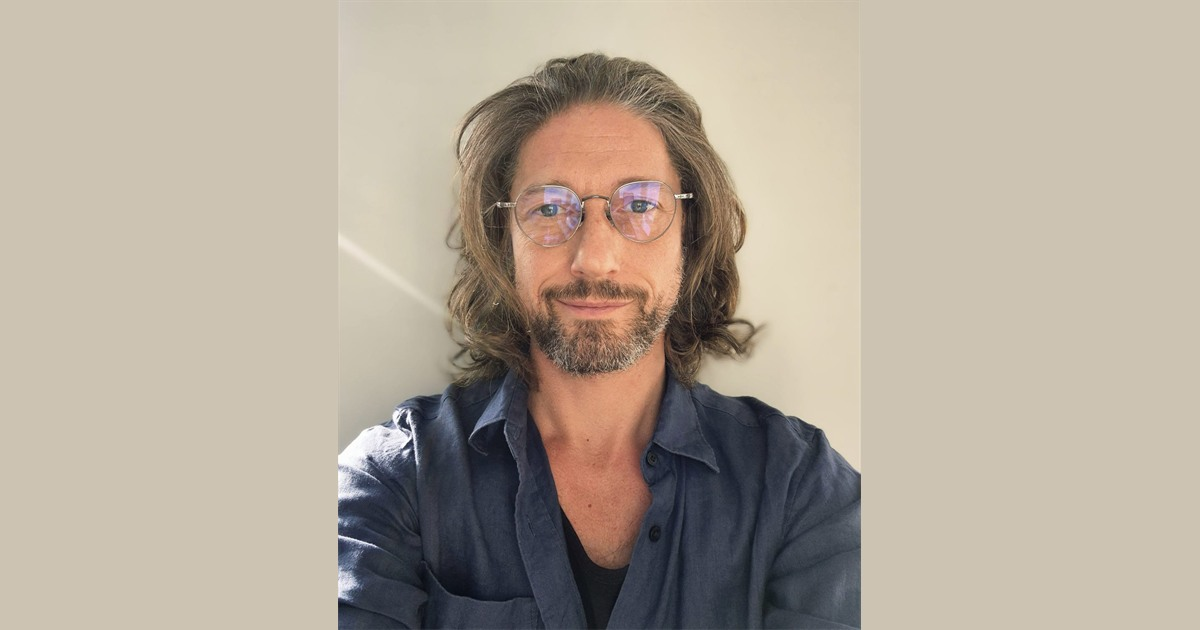
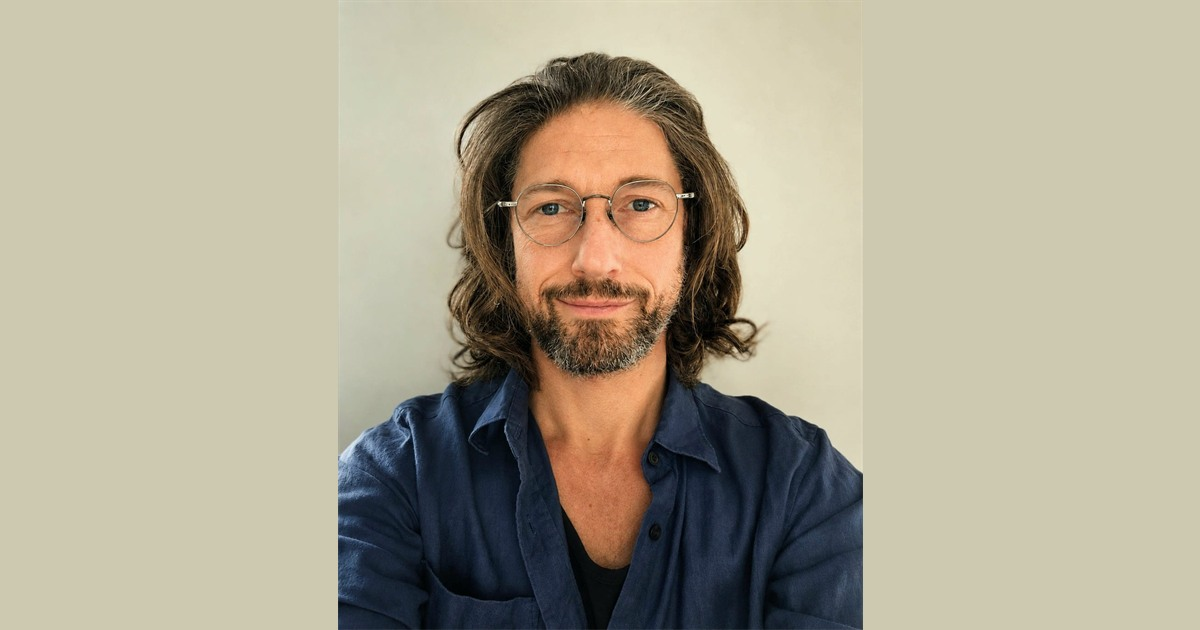
OG: use new profile photo for social image; comment out admin Default Social Share Image upload field

Changed region(s): [[0.2775, 0.0905, 0.74, 1.0], [0.2775, 0.3619, 0.3083, 0.4222], [0.3083, 0.4222, 0.3392, 0.4524]]

diff --git a/resources/views/admin/pages/settings/index.blade.php b/resources/views/admin/pages/settings/index.blade.php
@@ -50,6 +50,12 @@
       </div>
 
       @foreach($settings[$group] as $setting)
+      {{-- Default Social Share Image (Open Graph) upload disabled.
+           The OG image is now set directly from the static file public/images/og-image.jpg.
+           To re-enable admin uploads, remove this @continue block. --}}
+      @if($setting->type === 'image')
+        @continue
+      @endif
       <div class="admin-field">
         <label class="admin-label" for="setting-{{ $setting->key }}">
           {{ $setting->label ?? $setting->key }}
